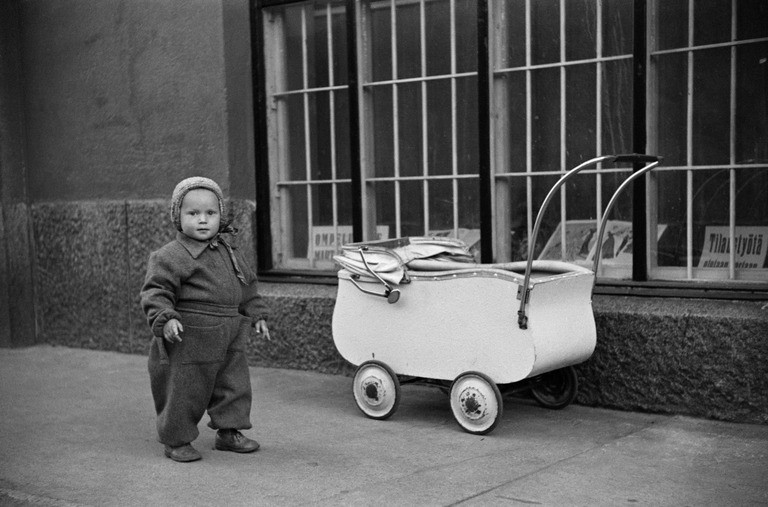
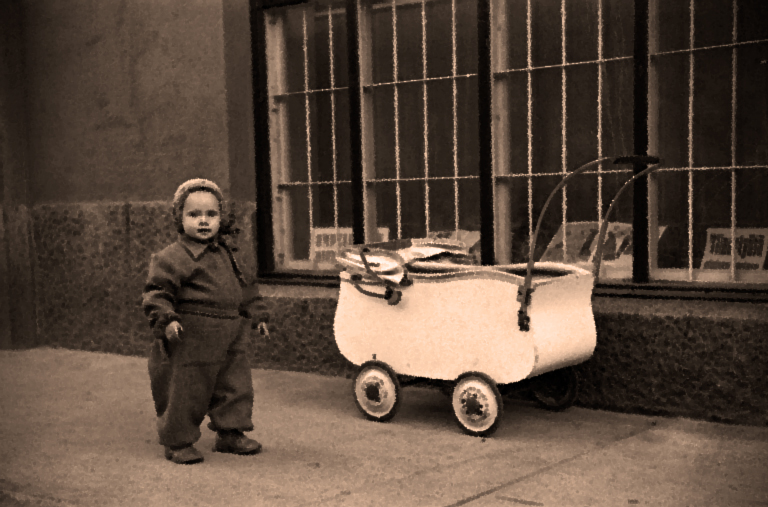
Added sepia backgrounds and a text box

diff --git a/src/beginning.js b/src/beginning.js
@@ -4,7 +4,7 @@ var beginning_state = {
     preload: function () {
     },
     create: function () {
-        var style = {font: "25px verdana", fill: "#FFFFFF"};
+        var style = {font: "25px verdana", fill: "#1e1711"};
         
         createPlayerStats();
         if(player.location === "country") {
@@ -12,6 +12,8 @@ var beginning_state = {
         } else {
             game.add.sprite(0, 0, 'beginningcitybackground');
         }
+        
+        var continueButton = game.add.sprite(game.world.centerX*0.2, game.world.centerY*0.2, 'box');
         
         if(player.sex === "male") {
             var text1 = game.add.text(game.world.centerX * 0.3, game.world.centerY * 0.3, "Synnyit poikavauvaksi vuoteen 1917.", style);
@@ -25,7 +27,7 @@ var beginning_state = {
             var text3 = game.add.text(game.world.centerX * 0.3, game.world.centerY * 0.5, "Elät maalla.", style);
         }
 
-        var continueButton = game.add.button(game.world.centerX, game.world.centerY, 'button');
+        var continueButton = game.add.button(game.world.centerX, game.world.centerY * 1.2, 'button');
         continueButton.anchor.set(0.5);
         var t1 = game.add.text(continueButton.centerX, continueButton.centerY, 'Jatka');
         t1.anchor.set(0.5);

diff --git a/src/school.js b/src/school.js
@@ -3,7 +3,9 @@ var school_state = {
     create: function() {
         game.add.sprite(0, 0, 'schoolbackground');
         
-        var style = {font: "25px verdana", fill: "#FFFFFF"};
+        var continueButton = game.add.sprite(game.world.centerX*0.1, game.world.centerY*0.2, 'box');
+        
+        var style = {font: "25px verdana", fill: "#1e1711"};
         var text1 = game.add.text(game.world.centerX * 0.2, game.world.centerY * 0.5, "Kävit kansakoulun.", style);
         if(player.class === "poor") {
             var text2 = game.add.text(game.world.centerX * 0.2, game.world.centerY * 0.6, "Välillä oli vaikeaa, koska perheesi on köyhä.", style);
@@ -15,7 +17,7 @@ var school_state = {
             var text2 = game.add.text(game.world.centerX * 0.2, game.world.centerY * 0.6, "Se meni loistavasti, perheen tukemana.", style);
         }
 
-        var continueButton = game.add.button(game.world.centerX, game.world.centerY, 'button');
+        var continueButton = game.add.button(game.world.centerX * 0.8, game.world.centerY * 1.2, 'button');
         continueButton.anchor.set(0.5);
         var t1 = game.add.text(continueButton.centerX, continueButton.centerY, 'Jatka');
         t1.anchor.set(0.5);

diff --git a/src/load.js b/src/load.js
@@ -3,7 +3,8 @@
  */
 var load_state = {
     preload: function() {
-        game.load.image('button', 'assets/img/buttongray.png');
+        game.load.image('button', 'assets/img/buttonsepia.png');
+        game.load.image('box', 'assets/img/box.png');
         game.load.image('background', 'assets/img/background.jpg');
         game.load.image('menubackground', 'assets/img/menu.jpg');
         game.load.image('beginningcitybackground', 'assets/img/beginningcity.jpg');
